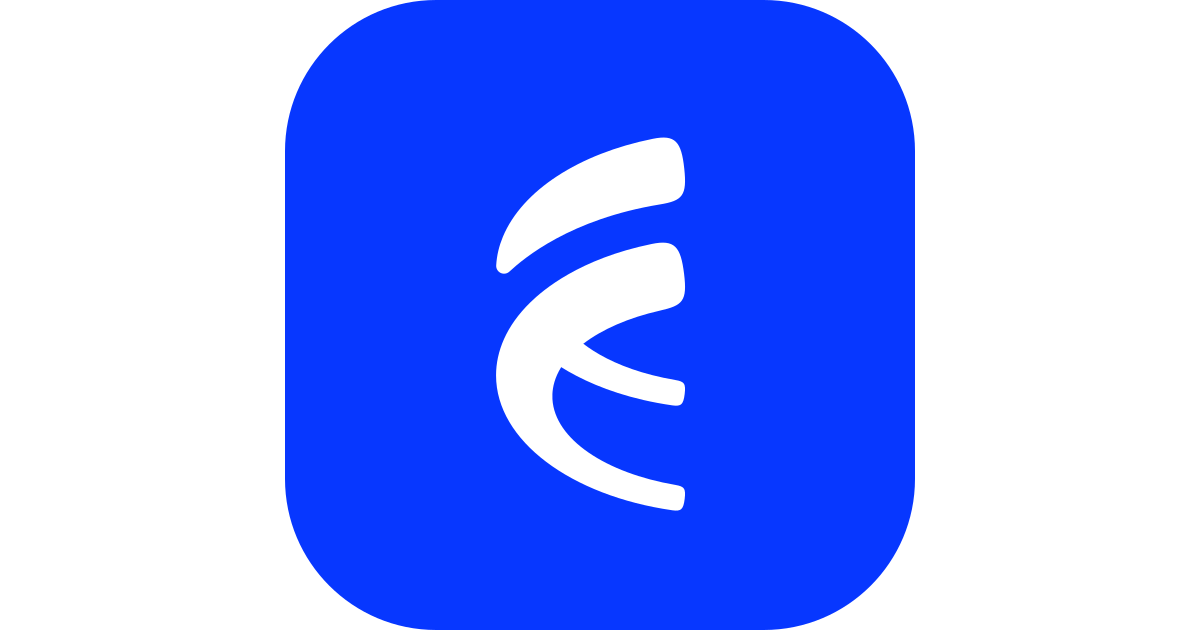
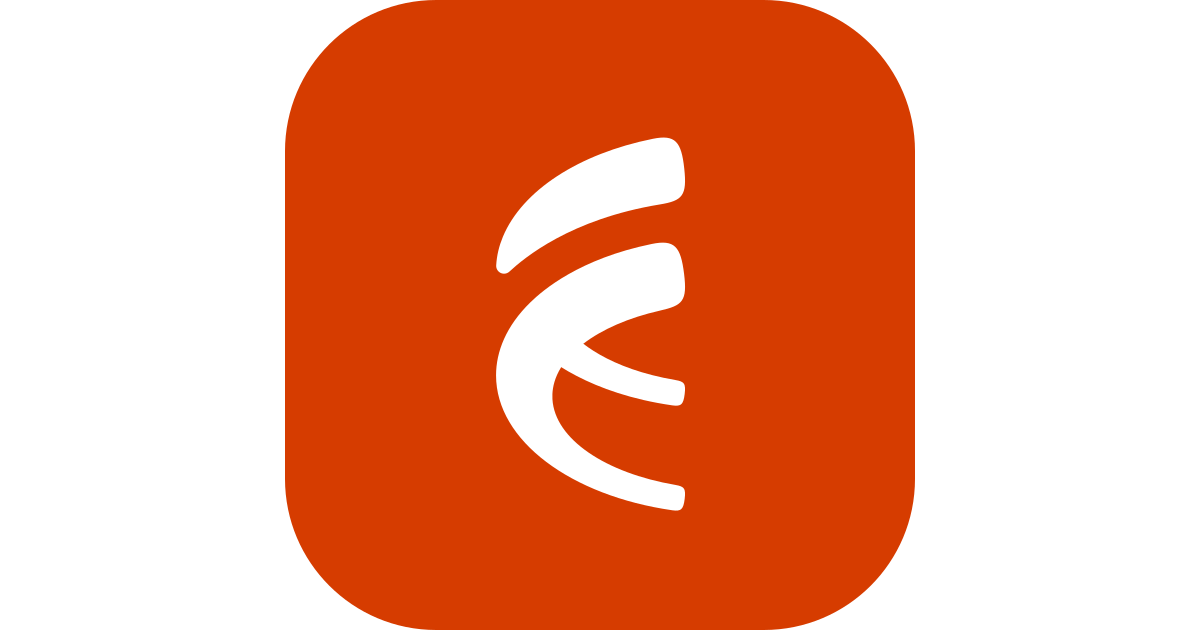
Use orange as the Fulldev UI product color

diff --git a/src/lib/presets.ts b/src/lib/presets.ts
@@ -73,14 +73,13 @@ export const STYLE_OPTIONS = PRESET_STYLES.map((name) => ({
 export const FONTS = fonts
 
 // Fulldev UI serves the Base UI library and uses Lucide icons.
-// The docs default: the preset closest to the full.dev websites (bJfEY5IW in
-// fulldotdev/fulldev packages/web/DESIGN.md) with translucent menus. Installs
-// keep the theme of the registry's init item.
+// The docs default: the full.dev website treatment with Fulldev UI's orange
+// product color and translucent menus. Installs keep the registry's theme.
 export const DEFAULT_CONFIG: PresetConfig = {
   ...DEFAULT_PRESET_CONFIG,
   style: "vega",
   baseColor: "stone",
-  theme: "blue",
+  theme: "orange",
   chartColor: "stone",
   font: "geist",
   fontHeading: "inherit",

diff --git a/src/styles/global.css b/src/styles/global.css
@@ -121,6 +121,11 @@
   --shadow-2xl: 0 1px 3px 0px hsl(0 0% 0% / 0.25);
 }
 
+/* Fulldev UI's logo keeps its product color across docs presets. */
+:root {
+  --fd-brand: #d63c00;
+}
+
 /* Not inline, so a docs preset can change the heading font at runtime. */
 @theme {
   --font-heading: var(--font-sans);

diff --git a/DESIGN.md b/DESIGN.md
@@ -21,14 +21,14 @@ A general homepage for both frameworks, with its content in the frontmatter of `
 
 The site follows one preset everywhere: theme, style, fonts and menu color, previews included.
 
-- The default is the Fulldev preset (`DEFAULT_CONFIG` in `src/lib/presets.ts`): Vega, Stone, Blue, Geist, the large radius and translucent menus, the preset closest to the full.dev websites (`bJfEY5IW` in `fulldotdev/fulldev` `packages/web/DESIGN.md`, plus translucent menus). Installs keep the theme of the registry's init item.
+- The default is the Fulldev preset (`DEFAULT_CONFIG` in `src/lib/presets.ts`): Vega, Stone, Orange, Geist, the large radius and translucent menus. It follows the full.dev website treatment with orange as Fulldev UI's product color. Installs keep the theme of the registry's init item.
 - The switcher offers Fulldev, shadcn/ui (`SHADCN_CONFIG`: Nova, Neutral, Geist, the default radius) and the visitor's own preset from Create. Astro or React comes from the page.
 - `src/lib/styles.ts` renders the site in Vega and adds, per class string, the classes of every style; the inline script it adds switches them before the first paint. Previews are rendered per style already (`style-preview.astro`).
 - The header turns to glass when the preset's menus are translucent (`data-menu-color` on `<html>`).
 
 ## Brand
 
-- Logo: the Fulldev mark on a tile in the brand blue `#1442e9`, with the sheen, rim and shadow of the full.dev logo tile, and "UI" in the wordmark type (Geist, 550, -0.01em). The tile stays blue in every preset; the Blue theme's primary matches it within rounding.
+- Logo: the Fulldev mark on an orange tile (`--fd-brand` in `src/styles/global.css`), with the sheen, rim and shadow of the full.dev logo tile, and "UI" in the wordmark type (Geist, 550, -0.01em). The tile stays orange in every preset. The favicon, logo assets and social image use the same orange; the default theme uses shadcn/ui's Orange palette.
 - Font: Geist 1.7.2 from the full.dev websites with their stylistic sets (ss02 single-storey a, ss03 straight l, ss06 alternate G, ss08 round dots), configured in `astro.config.ts`. A preset in Geist keeps this font.
 
 ## Rejected
